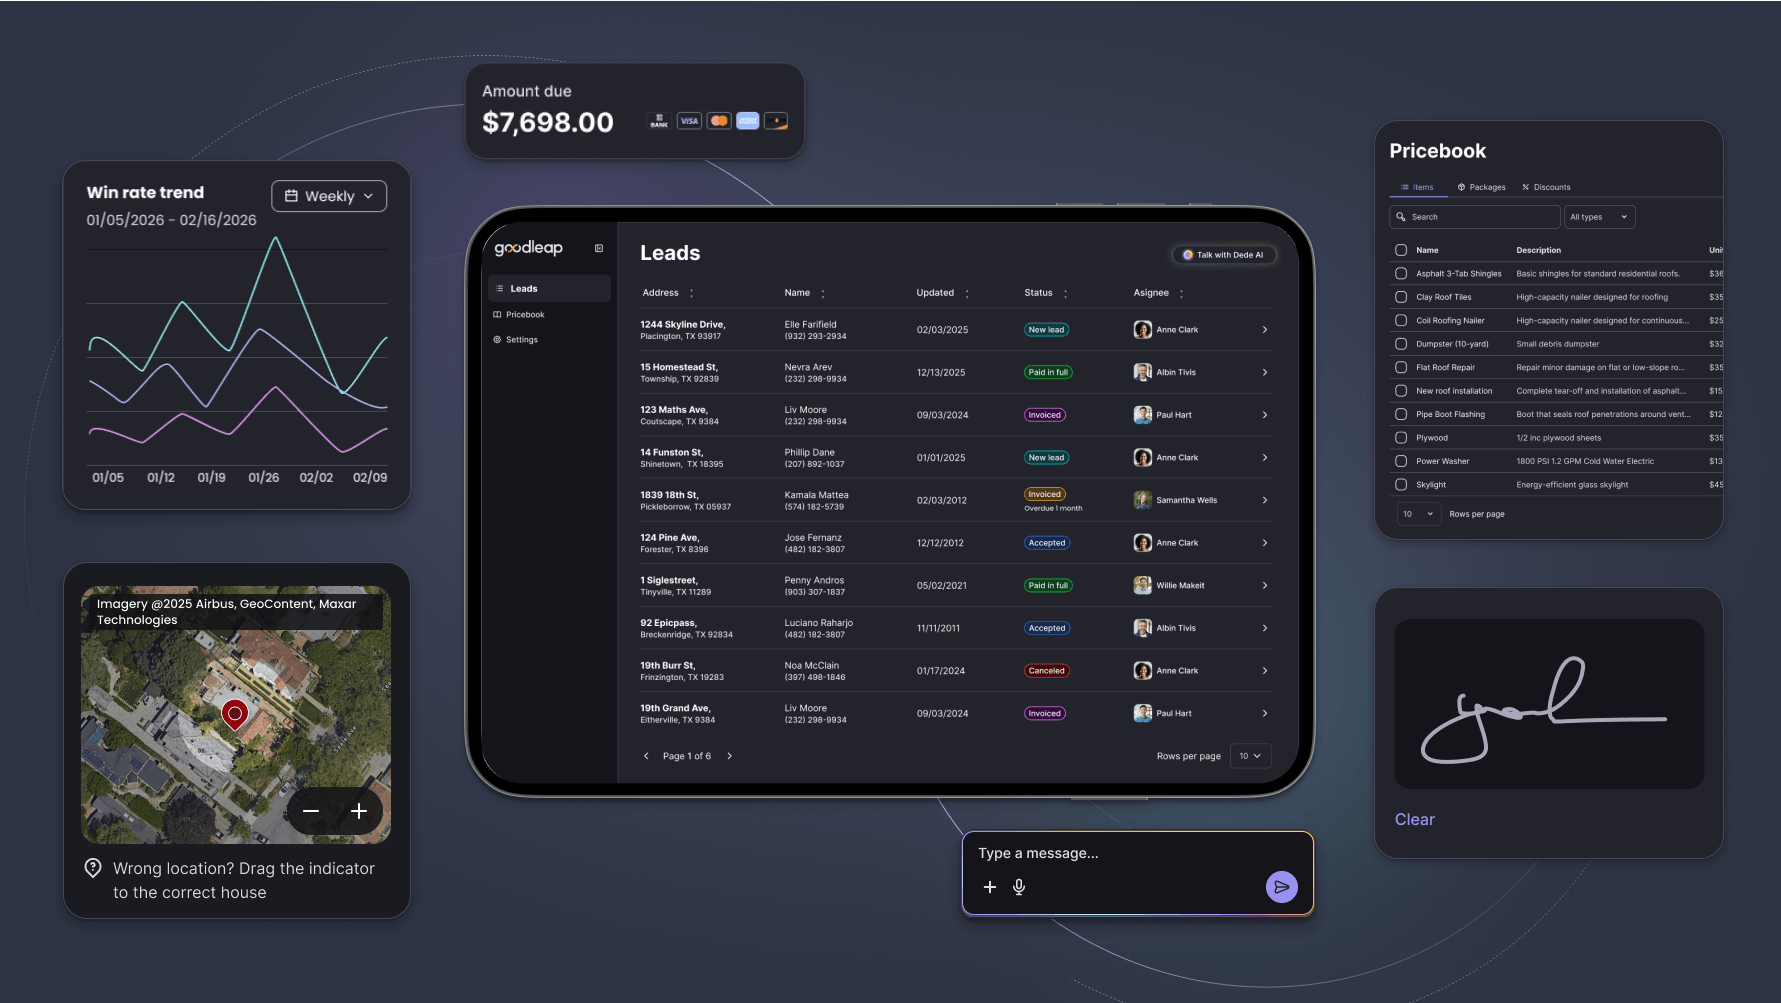
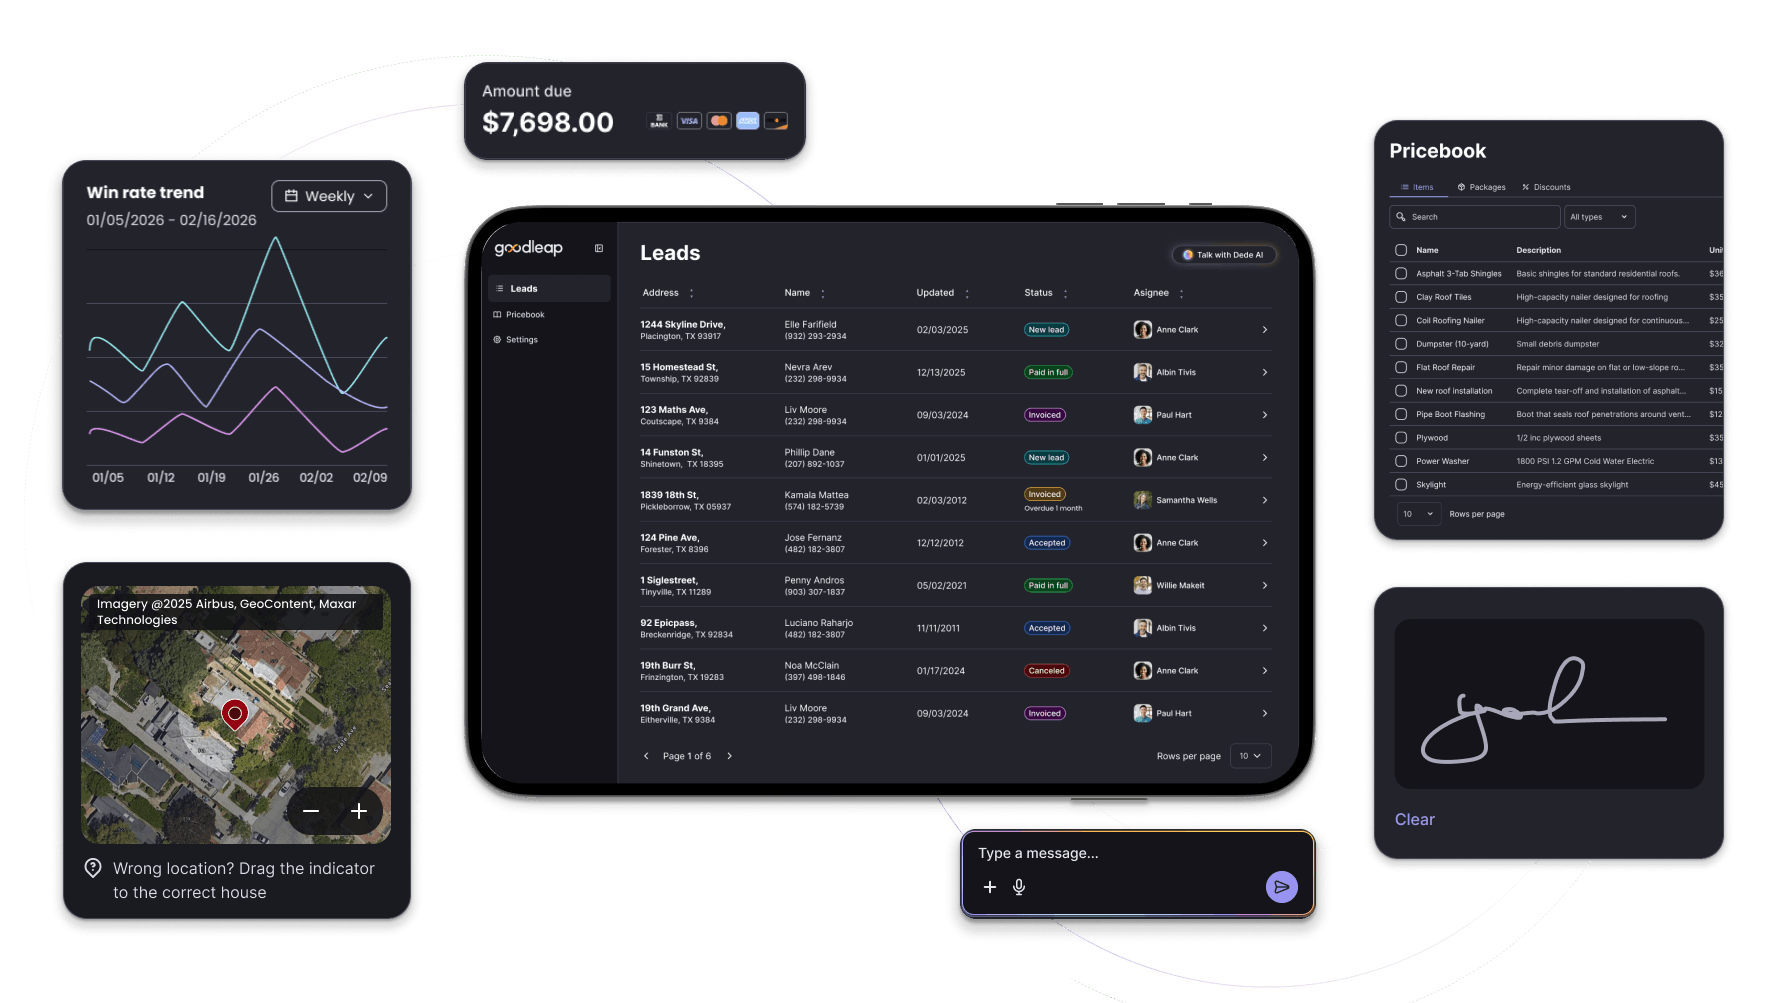
Header quick fix

diff --git a/src/components/Home-page/intro-fc.jsx b/src/components/Home-page/intro-fc.jsx
@@ -45,7 +45,7 @@ const IntroFC = ({ sliderRef, blackStar }) => {
     <header ref={sliderRef} className="particles valign" id="home">
       <div className="container fc-make-front">
         <div className="row">
-          <div className="col-lg-6 valign margin-more-b margin-more-t">
+          <div className="col-lg-6 valign margin-more-b margin-more-t pt-30">
           <div className="img ">
               <img src="/img/fc-fennec-fox.svg" alt=" " />
             </div>
@@ -74,8 +74,8 @@ const IntroFC = ({ sliderRef, blackStar }) => {
           </div>
 
 <section
-      className="section-padding pt-60 pb-60"
-      style={{ borderTop: "1px solid rgba(255,255,255,0.06)", width: "100%", marginTop: "10%" }}
+      className="section-padding pt-30 pb-30"
+      style={{ borderTop: "1px solid rgba(255,255,255,0.06)", width: "100%", marginTop: "5%" }}
     >
       <div className="container">
         <div className="row justify-content-center">
